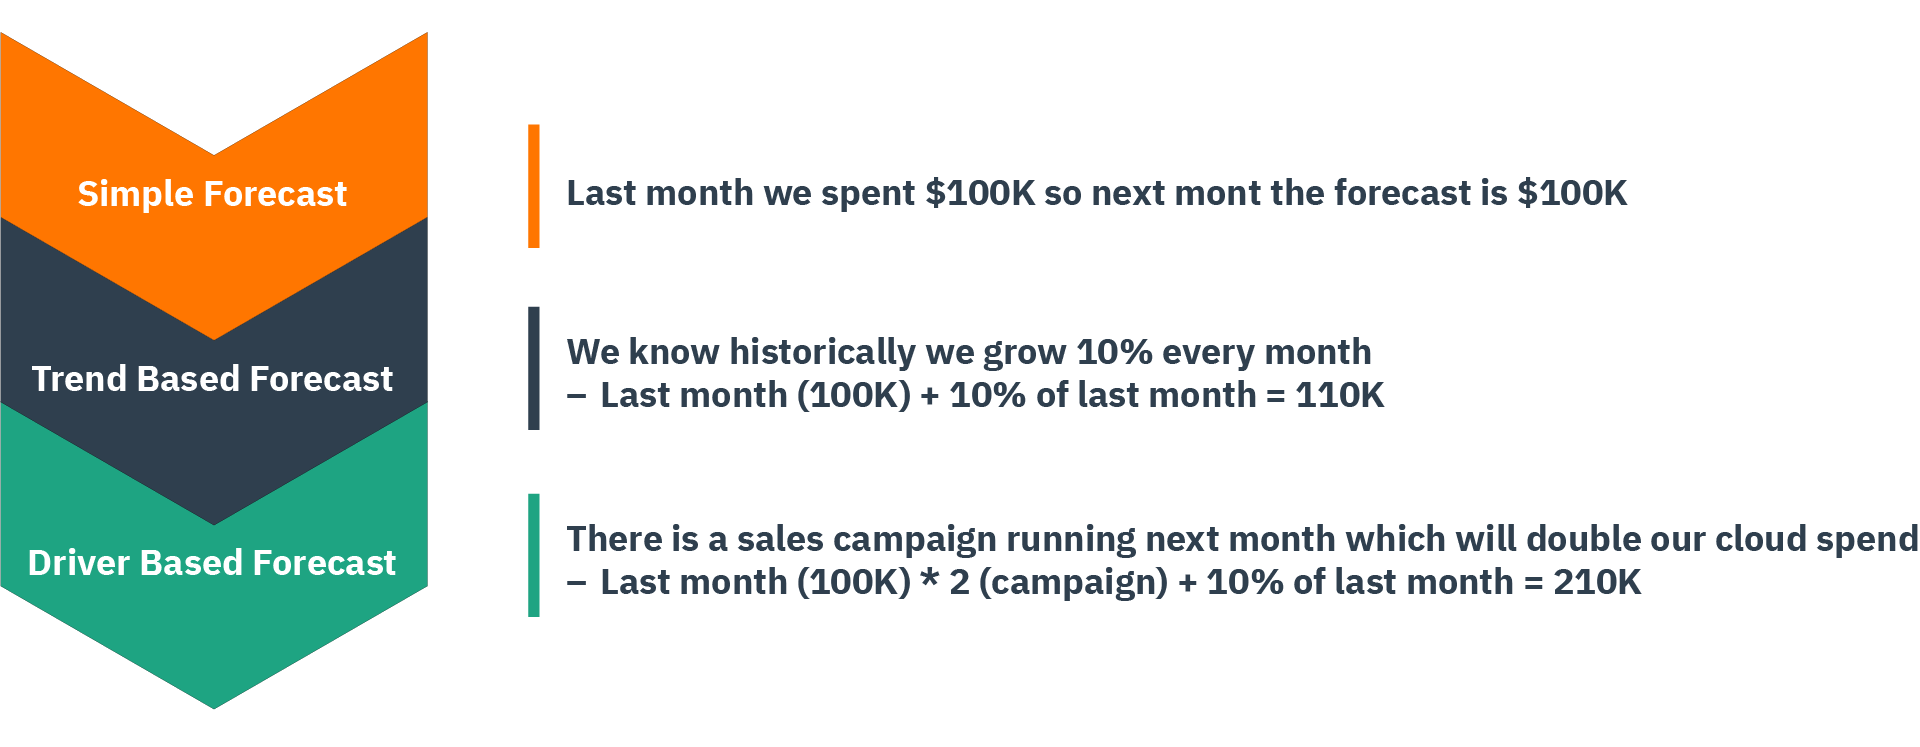
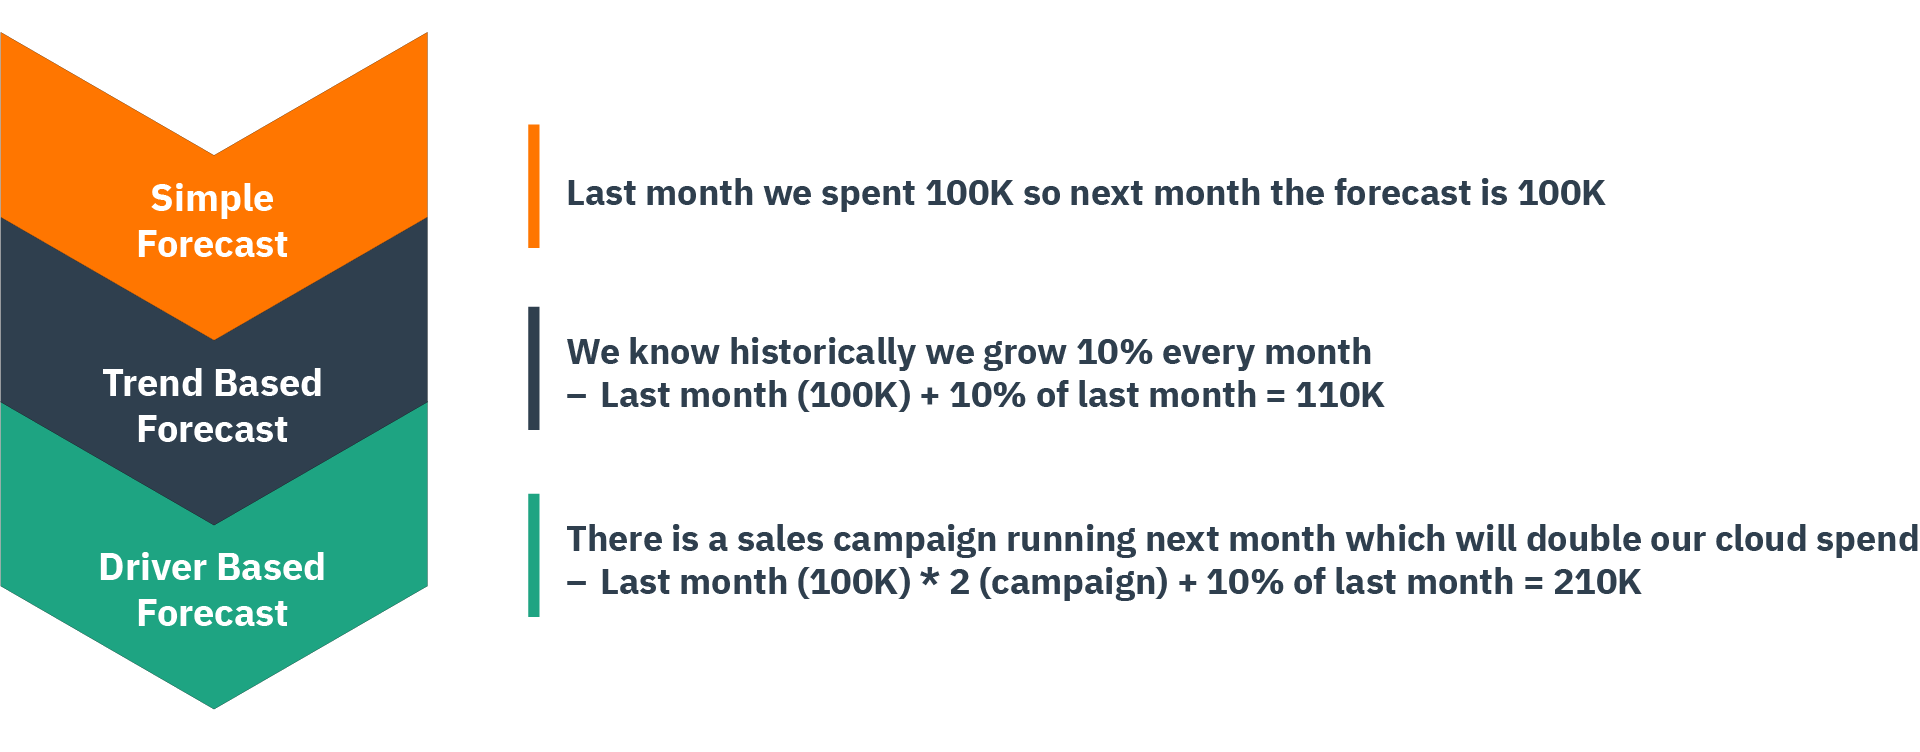
updated images, small fixes, add staff acknowledgements

diff --git a/_resources/project--forecasting-comprehensive-guide.md b/_resources/project--forecasting-comprehensive-guide.md
@@ -46,7 +46,7 @@ We created this working group to examine and better define cloud forecasting, su
 Welcome to the first iteration of the Forecasting Playbook. This playbook is intended to provide guidance around cloud forecasting. It is important to note that any forecasts for cloud should be approached with an eye toward measuring a larger Total Cost of Ownership (TCO). Cloud resources are an ever-increasing enabler of these processes as accurate forecasting of cloud resource usage helps to align resource allocation to other capabilities.
 
 ### Created by and for the FinOps community
-This playbook has been developed by the Forecasting Working Group (WG) and will continue to evolve and grow in future sprints. The initial working group created a great initial resource, back in 2021, that can be found [here](https://www.finops.org/projects/forecasting-cloud-costs/). We suggest you read that asset first, as well as the [FinOps Framework resource on Cloud Forecasting](https://www.finops.org/framework/capabilities/forecasting) as they both deliver great overviews on forecasting before you dig a little deeper with this newer playbook.
+This playbook has been developed by the Forecasting Working Group (WG) and will continue to evolve and grow in future sprints. The initial working group created a great  resource, back in 2021, that can be found [here](https://www.finops.org/projects/forecasting-cloud-costs/). We suggest you read that asset first, as well as the [FinOps Framework resource on Cloud Forecasting](https://www.finops.org/framework/capabilities/forecasting) as they both deliver great overviews on forecasting before you dig a little deeper with this newer playbook.
 
 ### Responding to insights from the State of FinOps
 Forecasting was the second biggest challenge cited in the [2022 State Of FinOps survey](https://data.finops.org/). Organizations across the globe are realizing the impact of shifting their compute from a fixed, capital expense to a variable, operating expense. Finance teams are starting to realize that they’ve given up a lot of control over their technology spend, and are starting to demand more accurate forecasting.
@@ -79,11 +79,15 @@ You'll read a number of these exerpts from survey participants and interviewees 
 
 It is often said that forecasting is an art. An art any company or business which wants to be successful has to undergo in some form or fashion. Whether it is predicting upcoming sales, upcoming spend, upcoming usage or workloads, companies rely on forecasting to obtain a rough picture of their business in the future. There are a couple of beautiful quotes we love when it comes to forecasting:
 
-> It is difficult to predict, especially the future. - Niels Bohr
+> It is difficult to predict, especially the future.
+
+*- Niels Bohr*
 
 While Neil Bohr’s quote keeps our aspirations of accuracy in check, the other quote from Paul Saffo is much more instructive.
 
-> The goal of forecasting is not to predict the future but to tell you what you need to know to take meaningful action in the present. - Paul Saffo
+> The goal of forecasting is not to predict the future but to tell you what you need to know to take meaningful action in the present.
+
+*- Paul Saffo*
 
 Our survey results told us that as organizations mature there are broader benefits of having a forecasting process which include more of the above examples.In the early stages the reasons for forecasting were simpler: budgetary and overall cloud spend position.
 
@@ -107,7 +111,7 @@ This is something done automatically by cost management tools based on historic 
 It’s natural for business leaders to ask simple questions like “what if we pull in completion of Project A while deferring Project B”. This usually leads to several parallel calculations for forecasting, each representing a different scenario. Cloud Cost Management vendors provide a way to get endless “estimations” by passing future usage patterns, none representing accurate “prediction” but more a scenario modeling. Some of these may in future may be finalized as the “go to plan” while others saved for future reference.
 
 #### Assessing the potential for reservations and commitments
-Before you commit to a reservation you would want to understand the future spend plans to allow you to reserve at the right level
+Before you commit to a reservation you would want to understand the future spend plans to allow you to reserve at the right level.
 
 #### Migration Assessment
 This is similar to What If Analysis discussed above but again the objective may be to choose the cloud vendor through competitive analysis OR to decide if we want to move to cloud now or later.
@@ -153,8 +157,6 @@ Using business KPIs to influence the consumption forecast. The forecast reflects
 Each of these types of forecasts are like foundational layers helping a baseline forecast to be created.
 
 Driver based forecasting is the type that you should expect to continually review and improve. The process of looking at the accuracy figures allows all involved in the process to learn, what did we miss last month, why did we spend more / less. Remember that getting to 100% accuracy is unlikely but you want to aim to get as close as you can with the effort available. Every forecasting review session should be a learning process and as you do it more your list of things to consider and bake into your baseline forecast grows. 
-
-In many cases, once organizations mature, they may end up using two or more types of forecasting. For example growth to existing applications may be forecasted using Trend method whereas any net-new workloads may be forecasted using Driver method.
 
 You could consider that once you have worked up the above you have a good **baseline forecast** and you would then want to explore the next layers of complexity.
 
@@ -215,8 +217,8 @@ We will share the results later in the playbook, but we wanted to thank all thos
 What level of granularity should you forecast at? How granular should forecasts be? This is challenging to give a definitive answer because every organization is different. This is an important decision to make before you dive in, if you set your forecasting process at too high a level of granularity and then need it broken down to a lower level this will require a full rework. Forecasting at the lowest level (perhaps subscription / account / project) gives you the ability to slice and dice the resulting forecasts to cover the majority of views you would need. This however comes at a cost, it takes more effort the lower level of granularity.
 
 The graphs below are taken from the working group survey and show the levels that respondents forecast at based on their chosen maturity. The choices given were: 
-* Cloud vendor level ( I plan to spend X on each CSP)
-* Business Unit (each operating unit plans to spend Y))
+* Cloud vendor level (I plan to spend X on each CSP)
+* Business Unit (each operating unit plans to spend Y)
 * Business Application / product (for each application / product we plan to spend Z)
 * Account / Project / Subscription (For every account/project/subs we have a forecast)
 * Organization Program / Project (Forecast for a defined solution delivery)
@@ -275,7 +277,7 @@ Here are some key takeaways from the survey results, in addition to the analysis
 
 <img src="/img/forecasting/data/forecast-granularity.png" style="margin: auto;" alt="A chart explaining granularity of cloud forecasting">
 
-- There is no one size fits all when it comes to forecast granularity although more mature practices generally forecast at a lower level of granularity.
+- There is no one-size-fits-all when it comes to forecast granularity although more mature practices generally forecast at a lower level of granularity.
 
 <img src="/img/forecasting/data/forecast-info.png" style="margin: auto;" alt="A chart showing where respondents gather info to create cloud forecasts">
 
@@ -290,11 +292,11 @@ Here are some key takeaways from the survey results, in addition to the analysis
 - Budget overruns are surfaced to workload owners who decide how to remediate. Optimizations are often chosen to bring spending on track.
 
 Additional insights include:
-- Stakeholder buy-in is critical for success e.g. Finance, engineering leadership, and engineers
-- Estimation and changes in estimates of new workloads and new technologies being used in the cloud e.g., security or network enhancement features as well as usage optimization efforts is challenging
+- Stakeholder buy-in is critical for success e.g. Finance, engineering leadership, and engineers.
+- Estimation and changes in estimates of new workloads and new technologies being used in the cloud e.g., security or network enhancement features as well as usage optimization efforts are challenging.
 
 <div class="flow-root bg-green-500 rounded-lg px-6 border-solid border-gray-100 border">
-<p class="text-base text-white"><em>An Insurance company “During contract renewals, we work closely with workload owners & department leaders to get a holistic view of spend trends for the next 3-5 years. We have not been fairly accurate at enterprise level (only 10% variance), but we see large variance at department level.”</em></p></div>
+<p class="text-base text-white"><em>An Insurance company “During contract renewals, we work closely with workload owners & department leaders to get a holistic view of spend trends for the next 3-5 years. We have been fairly accurate at enterprise level (only 10% variance), but we see large variance at department level.”</em></p></div>
 
 Build on your data sets by determining granularity, frequency, and forecasting period to grow your forecast efforts. 
 
@@ -336,8 +338,8 @@ It is important to note that while this maps to the most advanced level of matur
 |                                        **KPI**                                       | **Level 0** | **Level 1** |         **Level 2**        |     **Level 3**     |   **Level 4**  |
 |:------------------------------------------------------------------------------------:|:-----------:|:-----------:|:--------------------------:|:-------------------:|:--------------:|
 | Frequency of forecast updates                                                        |     N/A     |    Yearly   | every 6 months / quarterly | Monthly / bi-weekly | Near real time |
-| Top Line Forecast Spend Variance Accuracy (Forecast v Actuals) over a period of time |     >20%    |     <20%    |            <15%            |         <12%        |       <5%      |
-| Category Forecast Spend Variance Accuracy (Forecast v Actuals) over a period of time |     >20%    |     <20%    |            <15%            |         <12%        |       <5%      |
+| Top Line Forecast Spend Variance (Forecast v Actuals) over a period of time |     >20%    |     <20%    |            <15%            |         <12%        |       <5%      |
+| Category Forecast Spend Variance (Forecast v Actuals) over a period of time |     >20%    |     <20%    |            <15%            |         <12%        |       <5%      |
 | Commitment based discount coverage                                                   |     <10%    |   10 - 20%  |          21 - 50%          |       51 - 80%      |      >80%      |
 | % of tagging compliance                                                              |     <10%    |   10 - 20%  |          21 - 50%          |       51 - 80%      |      >80%      |
 
@@ -355,12 +357,12 @@ There are many tools that can be used for cloud forecasting and choosing the cor
 > A utility company: Don’t [overly] rely on tools for forecasting because it doesn’t know what’s coming up/any new workloads.
 
 * Granularity - the ability to provide forecasts at various granular levels (account, team, types of resources)
-* Handling of special (known) events - e.g. sales periods, holidays, product releases.
-* Adaptivity - ability to automatically adapt to changes in cloud spend behavior.
-* Handling of trends and other patterns (not just seasonality) automatically.
-* Handling of cost data that is updated in delay.
+* Handling of special (known) events - e.g. sales periods, holidays, product releases
+* Adaptivity - ability to automatically adapt to changes in cloud spend behavior
+* Handling of trends and other patterns (not just seasonality) automatically
+* Handling of cost data that is updated in delay
 * Time period outlook (1 month, 3 months, 1 year, 3 years?) 
-* Leveraging influencing KPIs on cost - e.g., # of MAU for an app, # of purchases (e-commerce) --- to create more accurate forecasts.
+* Leveraging influencing KPIs on cost - e.g., # of MAU for an app, # of purchases (e-commerce) --- to create more accurate forecasts
 * Automation / manual adjustments
 * Tagging capabilities and customizations
 
@@ -397,7 +399,7 @@ Take your pick from these to help you consider what is important and what you mi
 | Forecast / Budget to Actual Feedback Loop | None or annual but not well established | Annual with the largest workloads reviewed monthly                     | Monthly reviews and real-time budget overrun alerts   |
 
 ## Conclusion
-There is no doubt that cloud forecasting can be complex and varied based on industry, organization, maturity, and many other factors. There is no one simple answer on how to do it but the playbook should give you enough food for thought to consider what is relevant and of interest to you and your organization. With your help it can continue to evolve and become an even better resource. Come and join the conversation in the Forecasting Chat group or get involved in the next sprints of the Working group
+There is no doubt that cloud forecasting can be complex and varied based on industry, organization, maturity, and many other factors. There is no one simple answer on how to do it but the playbook should give you enough food for thought to consider what is relevant and of interest to you and your organization. With your help it can continue to evolve and become an even better resource. Come and join the conversation in the Forecasting Chat group or get involved in the next sprints of the Working Group.
 
 Final thoughts - know what your "why" is and use it as a guiding principle when making decisions about your forecasting approach and process. 
 
@@ -448,6 +450,8 @@ The FinOps Foundation extends a huge thank you to the members of this Working Gr
 {% endfor %}
 </div>
 
+Also, we'd like to thank our TAC Liason, William Bryant of Apple.
+
 ### Thank our supporters and interviewees
 Thank you to all of our survey responders and interviewers, without your insights this playbook would not be what it is today!
 
@@ -457,3 +461,6 @@ Thank you to all of our survey responders and interviewers, without your insight
 * Max Audet, Coveo
 * Venkat Karpuram, Broadcom
 * Michelle Cleland
+* Brad Payne
+
+Lastly, a big thank you to the F2 support team for helping us bring our work to life: Ashley Hromatko (F2 Staff Sponsor), Samantha White (Program Management), Tom Sharpe (Design), and Andrew Nhem (Content).
